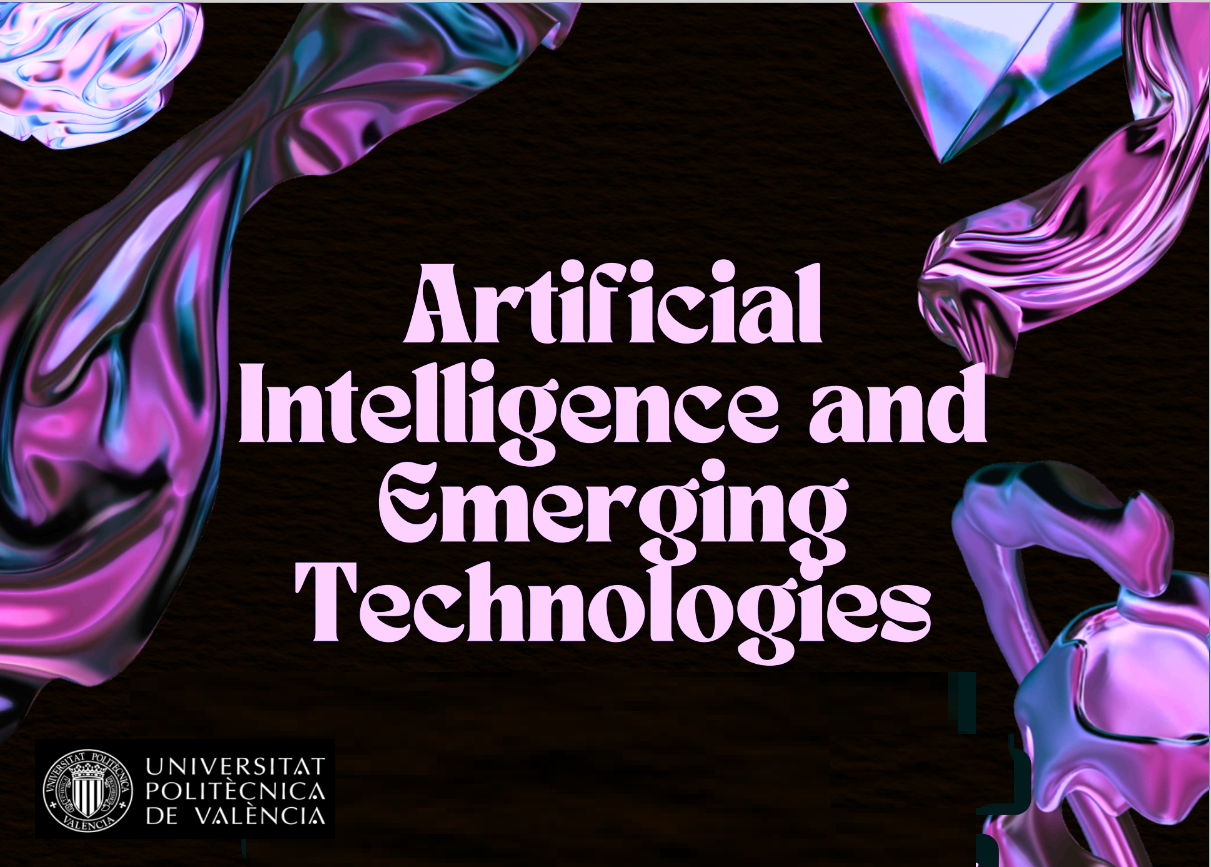
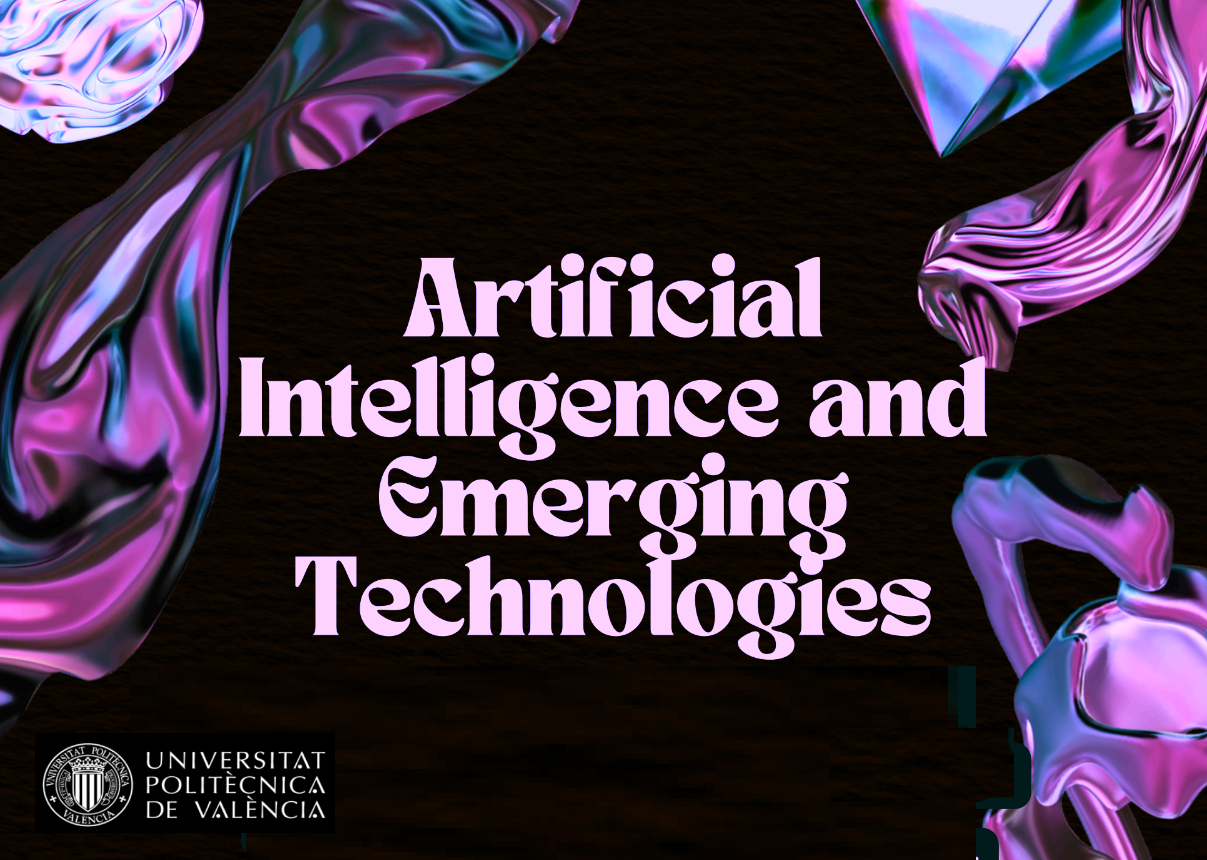
Update blog

diff --git a/content/event/UPV-class/index.md b/content/event/UPV-class/index.md
@@ -35,7 +35,7 @@ featured: true
 
 image:
   caption: ''
-  focal_point: Top
+  focal_point: ""
 
 #links:
 #  - icon: twitter
@@ -79,9 +79,9 @@ projects:
 
 ---
 
-🌱 I've been invited by the School of Agricultural Engineering and Environment (ETSEAMN) at Universitat Politècnica de València (UPV) to deliver a seminar as part of the "Artificial Intelligence and Emerging Technologies" seminars.
+🌱 I've been invited by the School of Agricultural Engineering and Environment (ETSEAMN) at Universitat Politècnica de València (UPV) to deliver a seminar as part of their "Artificial Intelligence and Emerging Technologies" seminars.
 
-
+The class will discuss 
 
 
 [![SINDy Examples](https://colab.research.google.com/assets/colab-badge.svg)](https://colab.research.google.com/drive/1hA10q1uH6IQTrP9Fl4rM1oPMW6YX1j6o)
